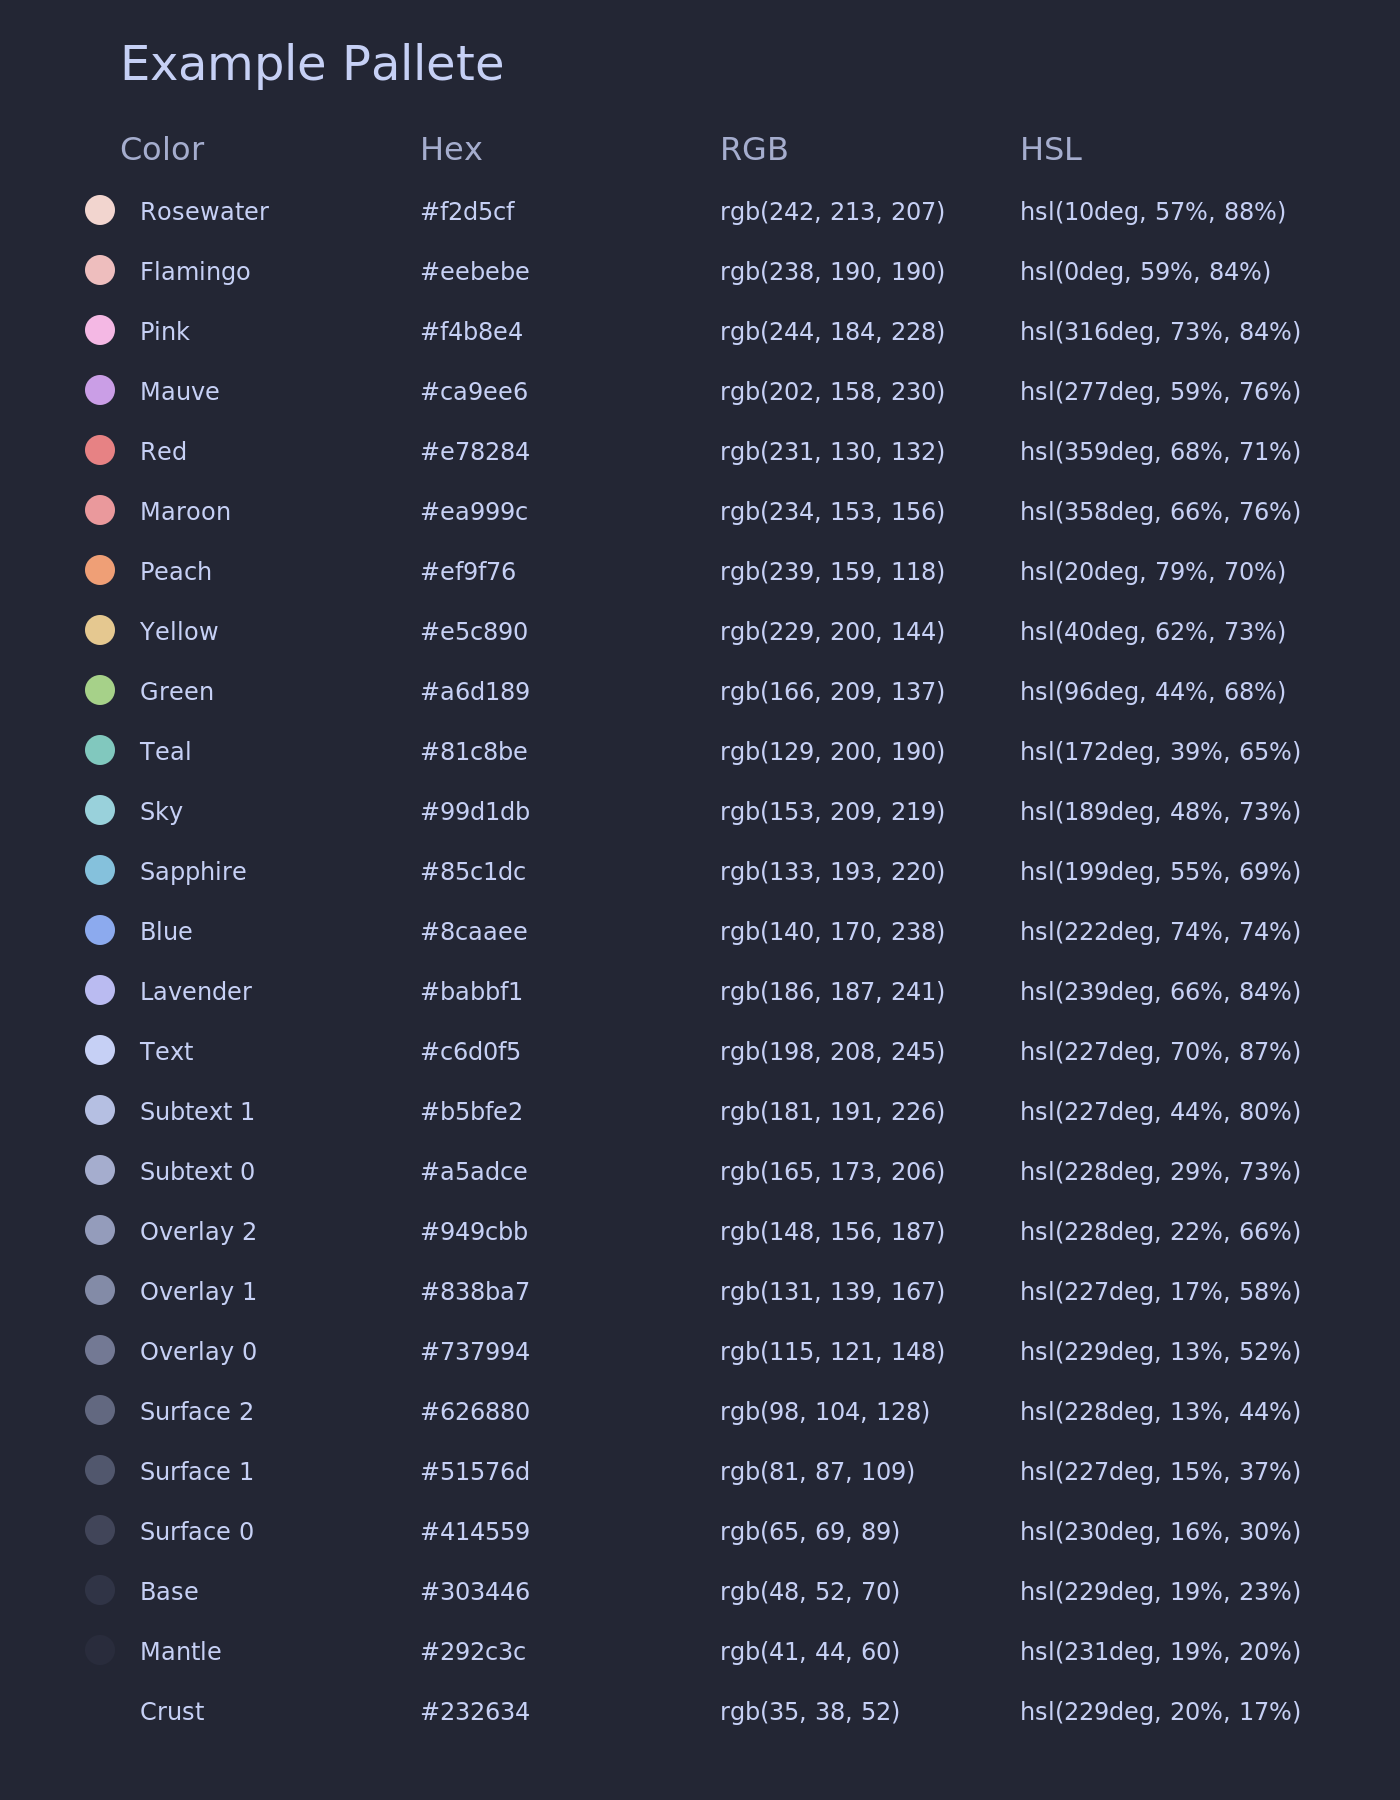
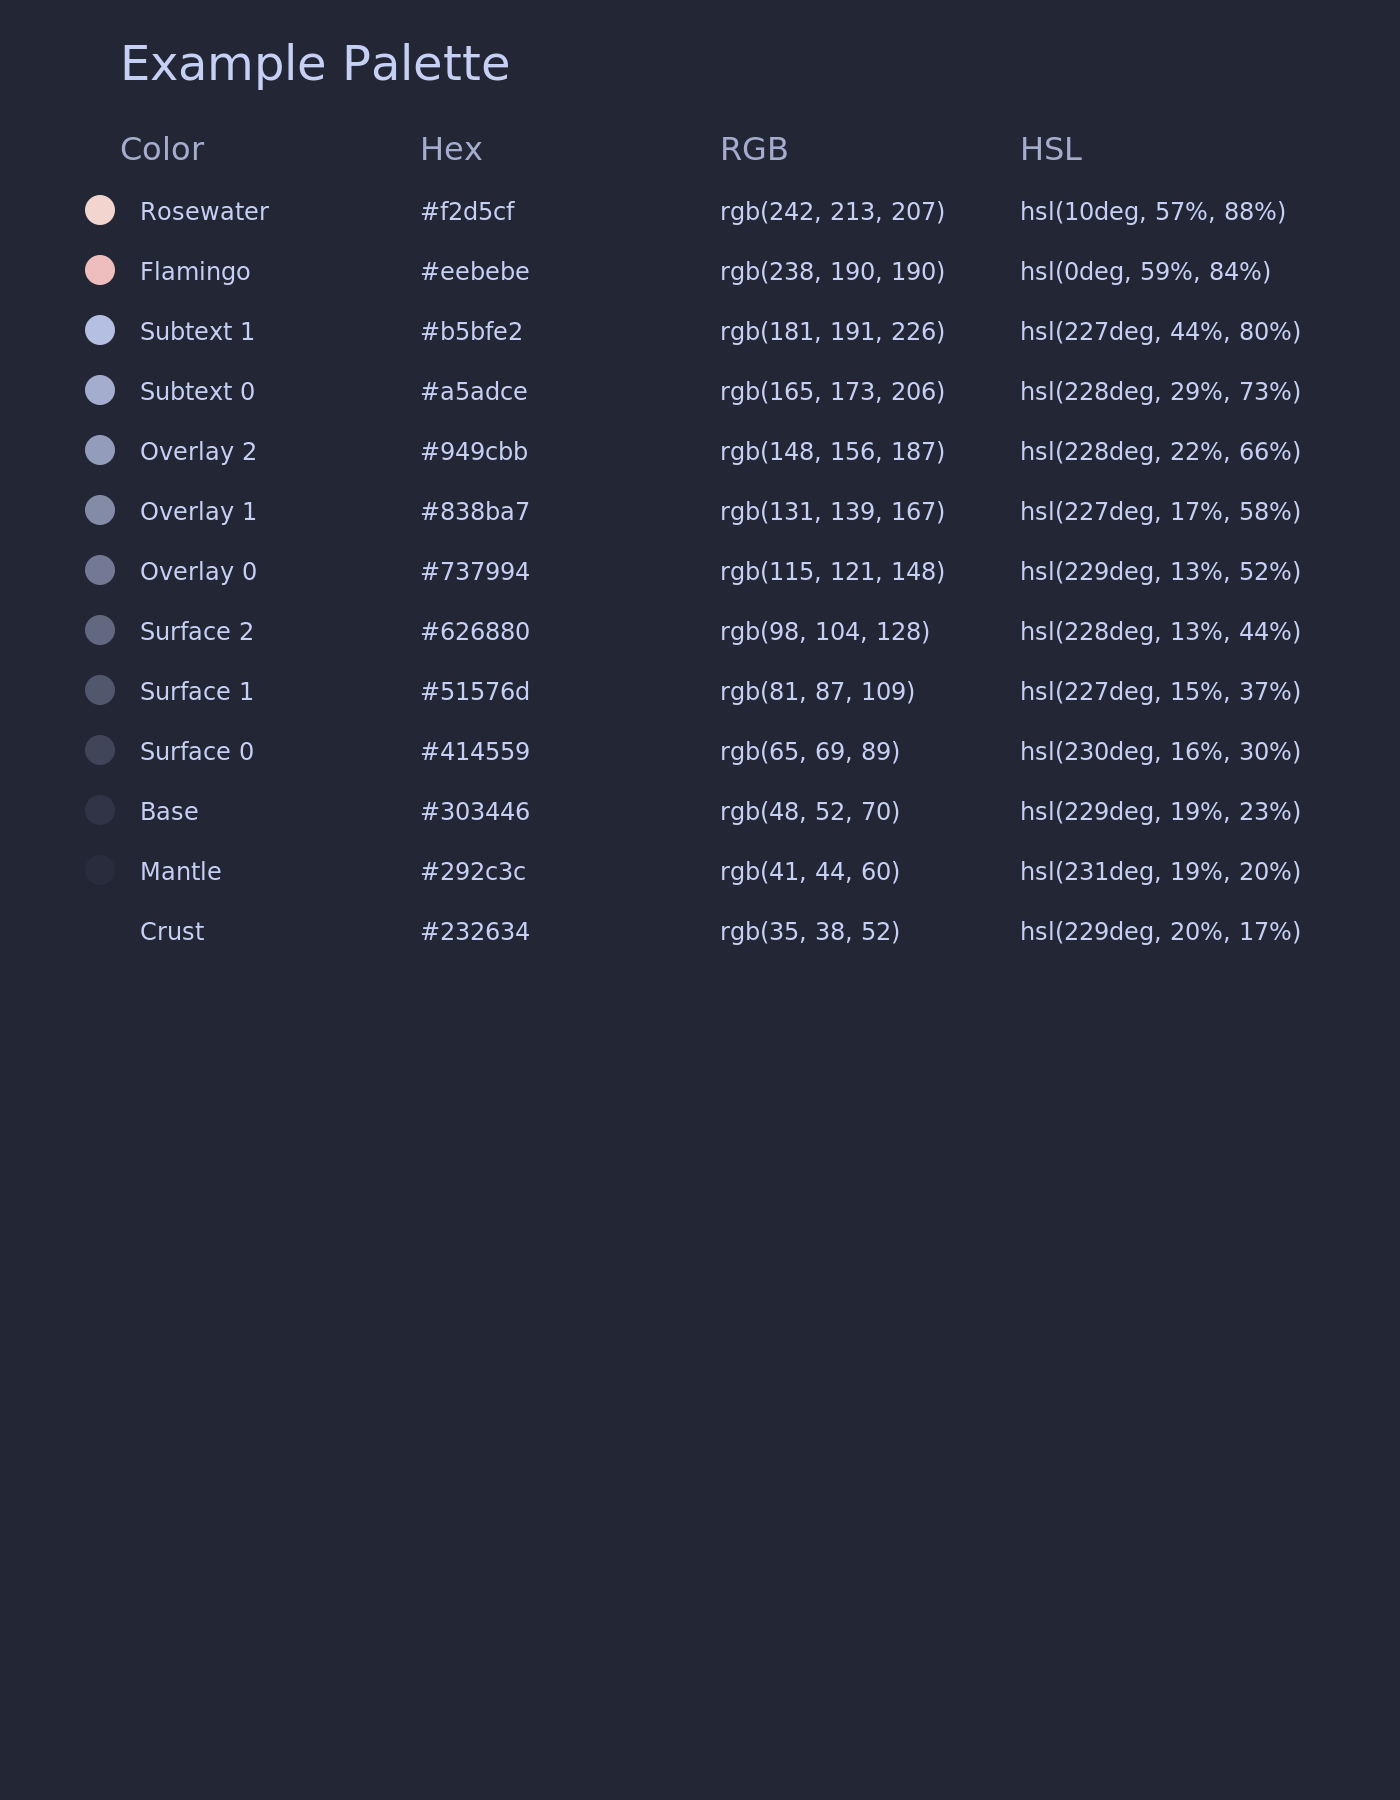
docker add to index

diff --git a/Docker/main.py b/Docker/main.py
@@ -1,11 +1,16 @@
 import argparse
+import importlib.util
 from PIL import Image, ImageDraw, ImageFont
 import os
 import cairosvg
 
+def load_palette_from_file(file_path):
+    spec = importlib.util.spec_from_file_location("color_palette", file_path)
+    module = importlib.util.module_from_spec(spec)
+    spec.loader.exec_module(module)
+    return module.colors  # Assuming colors is defined in color_palette.py
 
-
-def create_svg_palette():
+def create_svg_palette(colors):
     svg = '''<?xml version="1.0" encoding="UTF-8"?>
 <svg width="1400" height="1800" xmlns="http://www.w3.org/2000/svg">
     <style>
@@ -14,14 +19,12 @@ def create_svg_palette():
         .text { font-size: 24px; font-family: Arial; fill: rgb(198, 208, 245); }
     </style>
     <rect width="100%" height="100%" fill="rgb(35, 38, 52)"/>
-    <text x="120" y="80" class="title">Example Pallete</text>
+    <text x="120" y="80" class="title">Example Palette</text>
     <text x="120" y="160" class="header">Color</text>
     <text x="420" y="160" class="header">Hex</text>
     <text x="720" y="160" class="header">RGB</text>
     <text x="1020" y="160" class="header">HSL</text>
 '''
-    from color_palette import colors
-
     y_position = 200
     for name, hex_code, rgb, hsl in colors:
         svg += f'''    <circle cx="100" cy="{y_position + 10}" r="15" fill="{hex_code}"/>
@@ -31,13 +34,11 @@ def create_svg_palette():
     <text x="1020" y="{y_position + 20}" class="text">{hsl}</text>
 '''
         y_position += 60
-
     svg += '</svg>'
-
-    with open('example_color_palette.svg', 'w', encoding='utf-8') as f:
+    output_svg = 'example_color_palette.svg'
+    with open(output_svg, 'w', encoding='utf-8') as f:
         f.write(svg)
-
-    return "example_color_palette.svg"
+    return output_svg
 
 def convert_svg_to_png(svg_path, png_path):
     with open(svg_path, "rb") as svg_file:
@@ -46,15 +47,28 @@ def convert_svg_to_png(svg_path, png_path):
             png_file.write(png_bytes)
 
 def main():
-    parser = argparse.ArgumentParser(description='Generate color palette in PNG or SVG format')
-    parser.add_argument('--svg', action='store_true', help='Generate SVG format only')
+    parser = argparse.ArgumentParser(description="Generate color palettes.")
+    parser.add_argument('--svg', action='store_true', help='Generate SVG output')
+    parser.add_argument('--png', action='store_true', help='Generate PNG output')
+    parser.add_argument('--palette', type=str, help='Path to custom color palette file')
+
     args = parser.parse_args()
 
-    # SVG is created first, PNG conversion follows if needed
-    output_svg = create_svg_palette()
+    if args.palette:
+        colors = load_palette_from_file(args.palette)
+    else:
+        from color_palette import colors  # Default palette file
+
+    output_svg = create_svg_palette(colors)
+
     if args.svg:
         print(f"SVG palette has been saved as {output_svg}")
+    elif args.png:
+        output_png = "example_color_palette.png"
+        convert_svg_to_png(output_svg, output_png)
+        print(f"PNG palette has been saved as {output_png}")
     else:
+        print("No format specified, defaulting to PNG...")
         output_png = "example_color_palette.png"
         convert_svg_to_png(output_svg, output_png)
         print(f"PNG palette has been saved as {output_png}")

diff --git a/Docker/example.py b/Docker/example.py
@@ -1,0 +1,15 @@
+colors = [
+        ("Rosewater", "#f2d5cf", "rgb(242, 213, 207)", "hsl(10deg, 57%, 88%)"),
+            ("Flamingo", "#eebebe", "rgb(238, 190, 190)", "hsl(0deg, 59%, 84%)"),
+            ("Subtext 1", "#b5bfe2", "rgb(181, 191, 226)", "hsl(227deg, 44%, 80%)"),
+            ("Subtext 0", "#a5adce", "rgb(165, 173, 206)", "hsl(228deg, 29%, 73%)"),
+            ("Overlay 2", "#949cbb", "rgb(148, 156, 187)", "hsl(228deg, 22%, 66%)"),
+            ("Overlay 1", "#838ba7", "rgb(131, 139, 167)", "hsl(227deg, 17%, 58%)"),
+            ("Overlay 0", "#737994", "rgb(115, 121, 148)", "hsl(229deg, 13%, 52%)"),
+            ("Surface 2", "#626880", "rgb(98, 104, 128)", "hsl(228deg, 13%, 44%)"),
+            ("Surface 1", "#51576d", "rgb(81, 87, 109)", "hsl(227deg, 15%, 37%)"),
+            ("Surface 0", "#414559", "rgb(65, 69, 89)", "hsl(230deg, 16%, 30%)"),
+            ("Base", "#303446", "rgb(48, 52, 70)", "hsl(229deg, 19%, 23%)"),
+            ("Mantle", "#292c3c", "rgb(41, 44, 60)", "hsl(231deg, 19%, 20%)"),
+            ("Crust", "#232634", "rgb(35, 38, 52)", "hsl(229deg, 20%, 17%)")
+    ]
